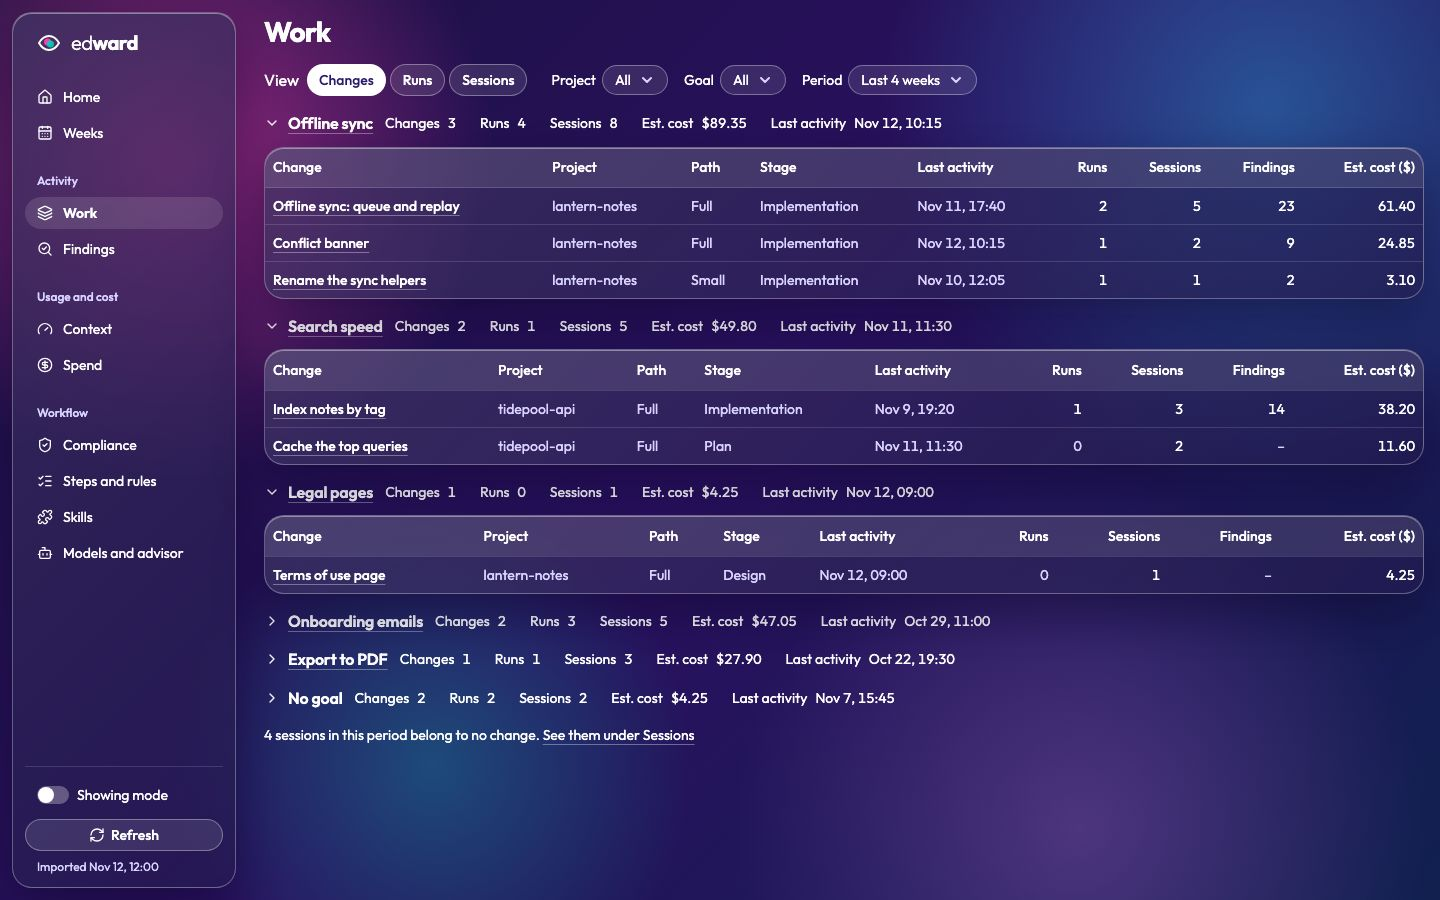
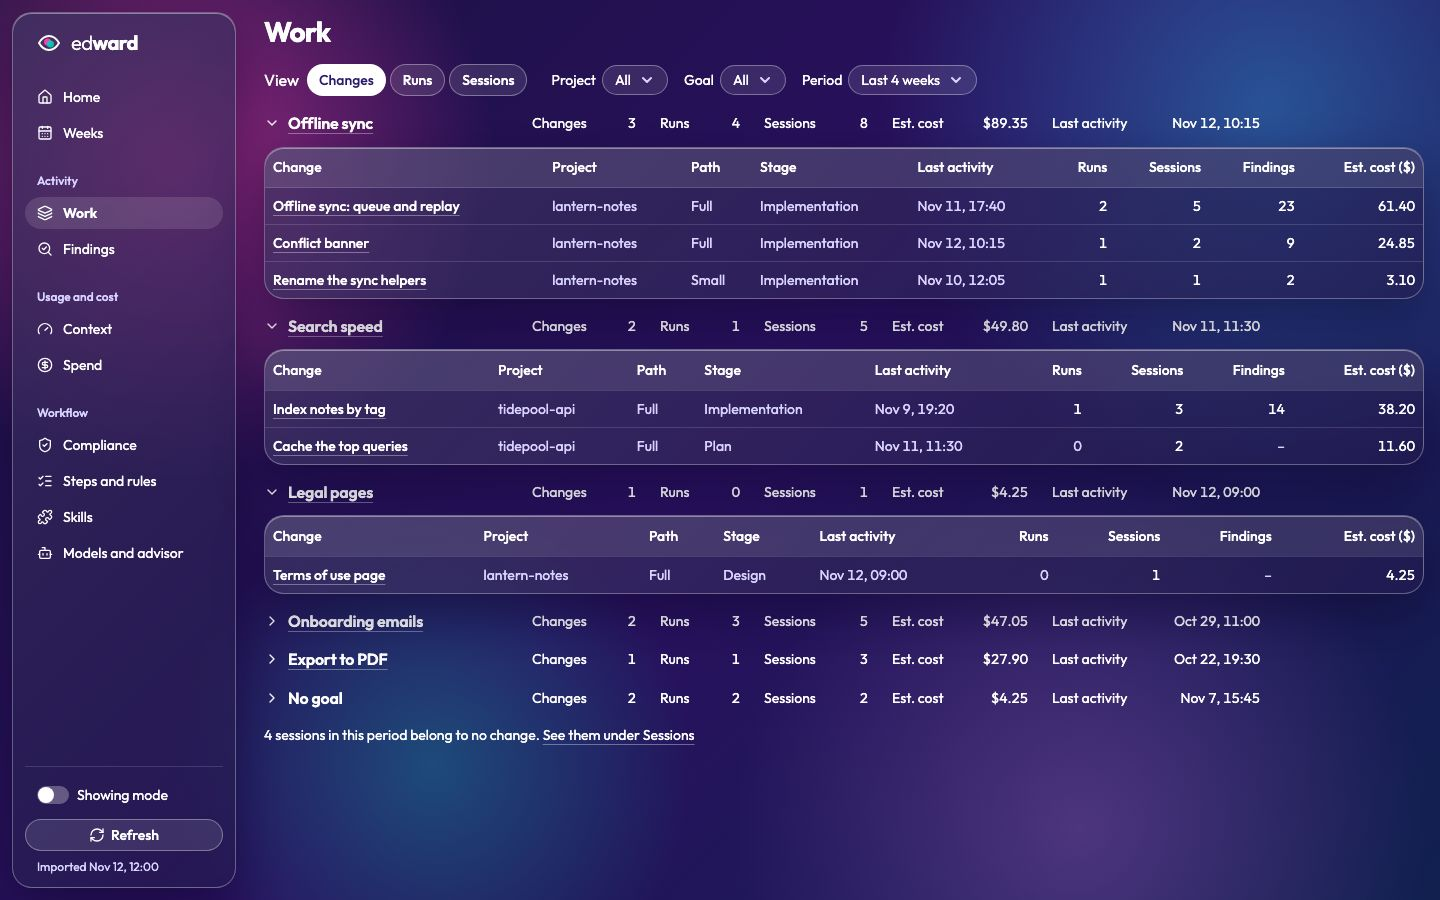
docs: the Work page's design after the owner's grilling
Changes span projects, keyed by their spec's project and path; two more
change requests (a fresh session per new change, a backfill of older
records); aligned section totals and the goal page's Sessions table,
with their captures re-rendered.

diff --git a/docs/superpowers/specs/2026-11-17-work-page-design.md b/docs/superpowers/specs/2026-11-17-work-page-design.md
@@ -1,6 +1,6 @@
 # Work: goals, changes and the session graph
 
-Status: draft, awaiting the owner's approval. Path: Full (new facts in the import's schema, new views, routes and pages, showing mode, `check:real`, fixtures, two routes redirected). Captures: `docs/design/2026-11-17-work/`, rendered on the real components with invented data, on the throwaway branch `claude/activity-mock` at `cada742`, cut from `main` at `855395e` (the side menu and the run page redesign are both merged).
+Status: draft, awaiting the owner's approval. Path: Full (new facts in the import's schema, new views, routes and pages, showing mode, `check:real`, fixtures, two routes redirected). Captures: `docs/design/2026-11-17-work/`, rendered on the real components with invented data, on the throwaway branch `claude/activity-mock` at `1e0bf75` (the Work and goal captures re-rendered after the grilling; the goal page's mocked Sessions table shows only the columns its mock data has), cut from `main` at `855395e` (the side menu and the run page redesign are both merged).
 
 ## Intent
 
@@ -30,7 +30,7 @@ The question the Work page answers: what have I been working toward, and what di
 - Any other page. Home, Weeks, Findings, Context, Spend, Compliance, Steps and rules, Skills and Models and advisor stay as they are. The owner decided to keep Weeks apart from Home: Home is "now", with fixed windows and no filters; Weeks is filtered history with tables of its own.
 - Goals or changes on other pages (spend by goal, findings by goal, a goal filter on Home). Worth having later; not here.
 - Creating, renaming or assigning a goal in the dashboard. The owner ruled it out: it would not be kept consistent.
-- Backfilling titles, specs, starters or goals for work already recorded. That is the workflow's own task if it wants it.
+- Backfilling titles, specs or goals in the dashboard, by a classifier or by hand. Older records gain them through the workflow's own backfill (change request 6), and the dashboard reads them like any others.
 - The run's page, beyond the header facts named under "The run's page".
 - The phone layout beyond what "At each width" says.
 
@@ -53,15 +53,17 @@ The question the Work page answers: what have I been working toward, and what di
 Written here so the workflow repo can take them as its own tasks. Field names are the workflow's to choose; the dashboard's schema follows what the reporter ships. Each fact is nullable: an older record has none. Three shapes are asked for, so the dashboard has nothing to guess: each fact sits on the unit's exported entry, as `title` and `key` do; a session exports at most one spec; and a starter is named by the reporter's own session `key`, as `handoff_to` names a successor.
 
 1. **A run's title.** When a Small or Full path run finishes, the session writes one line into its record saying what the run achieved, in the same step that fills the record from the ledger. A plan record gets one too. The reporter exports it on the run, apart from the session's title it already exports.
-2. **The spec.** Each plan record and each Full path run names the spec it comes from, as a path under the project root. The reporter exports it on those units, and on each session it can tie to that spec (the sessions that wrote the spec, the plan record or the run's record, and the sessions linked to them by a handoff or a start), so a design session belongs to its change. A session tied to several specs exports the one of the newest record it holds, else the one of the session that started it.
+2. **The spec.** Each plan record and each Full path run names the spec it comes from, as the spec's own project and its path under that project's root, since a change often spans repos: a run in one repo can be built from a spec kept in another. The reporter exports it on those units, and on each session it can tie to that spec (the sessions that wrote the spec, the plan record or the run's record, and the sessions linked to them by a handoff or a start), so a design session belongs to its change. A session tied to several specs exports the one of the newest record it holds, else the one of the session that started it.
 3. **Who started a session.** For each session, the reporter exports the session that started it and how: `started` (through `start_session`) or `handoff`. Today only a handoff's successor is exported (`context.handoff_to`).
 4. **The goal.** A workflow rule and a fact:
    - A session started from another session, or by a handoff, is given its goal in its brief. The starting session decides: the same goal when the task serves that goal's outcome, another goal or none when it doesn't. (The owner's examples: renaming the app during the UI work belongs to the UI goal, since the brand is part of the look; "by the way, start on the terms of use" does not.)
    - A session the owner starts directly states the goal in its first message, beside the path and stage. It picks one of the project's known goals when the request continues one, and otherwise proposes a name. The owner corrects it in words; no question is asked.
-   - To pick consistently, the session reads the known goals from the log (a reporter command that lists them).
+   - To pick consistently, the session reads the known goals from the log (a reporter command that lists them), across every project, since a goal can span repos.
    - The goal goes in the ledger and in the plan and run records. The reporter exports it on each run, plan record and session. A session with no goal exports none.
+5. **One change per session.** A workflow rule, no new fact: when a new change comes up in a session (a new design, a new spec), it starts in a fresh session, through `start_session`, never in the same one. So a session holds the units of one change at most, and the dashboard's rule for a session holding two (below) covers only records from before it.
+6. **A backfill of older records.** A one-off task in the workflow repo, after 1, 2 and 4, whose fields it fills: a session reads the older records with their ledgers and archives (`~/.claude/workflow-archive`) and proposes each record's title, spec and goal; the owner reviews the proposals once, and only then are they written where the reporter reads them. Nothing in the dashboard changes for it.
 
-The four are independent of each other. They are filed and built first; the dashboard's plan starts once the reporter exports them, so `check:real` has real fields to read. Records from before them still import: see "Before the facts arrive".
+Requests 1 to 5 are independent of each other; 6 follows 1, 2 and 4. Requests 1 to 5 are filed and built first; the dashboard's plan starts once the reporter exports 1 to 4, so `check:real` has real fields to read. Records from before them still import: see "Before the facts arrive".
 
 ## Approaches
 
@@ -91,15 +93,15 @@ For the level above a run, the owner's first thesis was "a spec equals a run, wi
 
 ### The levels, as the dashboard builds them
 
-- **A change** is the units that share a spec: its runs, its plan records and its sessions. Runs and plan records with no spec that share a plan file (`plan`, exported today) are one change, so an older plan record joins the run built from it. A run or plan record with neither is a change of its own.
-- **A session is in one change at most:** the one of the spec the reporter gives it; else the change of the newest run or plan record it holds; else none. A session that held runs of two changes sits in the newer one's, and the older run's change shows that run with no session; the graph still draws the session once.
+- **A change** is the units that share a spec (its project and path): its runs, its plan records and its sessions, in whichever projects they ran. **A change's projects** are its units' roots; its **home project** is its spec's, else its one run's. Runs and plan records with no spec that share a plan file (`plan`, exported today) are one change, so an older plan record joins the run built from it. A run or plan record with neither is a change of its own.
+- **A session is in one change at most:** the one of the spec the reporter gives it; else the change of the newest run or plan record it holds; else none. A session that held runs of two changes sits in the newer one's, and the older run's change shows that run with no session; the graph still draws the session once. Change request 5 makes this a case of older records only.
 - **A change's title** is its newest plan record's title, else its newest run's title, else its spec's file name without the date and `-design.md`, else its run's branch. (Claude's call: the reporter exports no spec title, and this needs no new fact.)
 - **A goal belongs to a change,** not to each unit: a change's goal is the goal of its newest unit that has one, and every unit of the change counts and shows under it, whatever its own. Units of one change normally agree; when they don't, the newest wins and nothing is flagged. A session in no change carries its own goal. The Goal column and filter of the Runs and Sessions views use the same rule. The "Other goals" lane and the anti-goal follow from it: a session started from this goal's sessions sits there when its change's goal (or its own, in no change) is another.
 - **A change's path** is Full when it has a spec or a Full run, else Small. **Its stage** is the furthest it reached: Implementation with a Full or Small run, else Plan with a plan record, else Design.
 - **A session's step** is what it held: Implementation when it holds a Full or Small run, else Plan when it holds a plan record, else Design. A session holding both reads Implementation.
 - **A goal** is the changes and loose sessions that carry its name. It may span projects.
 - **Totals.** A change's cost is the sum of its runs' and sessions' priced costs; the reporter already keeps a session's cost to its rows outside every run window, so nothing counts twice. Its findings are its runs' found findings. Its last activity is the latest of its runs' finishes and its sessions' ends; its start is its earliest session's start. A goal's totals are sums over its changes, plus the cost of its sessions that belong to no change.
-- **A period** holds a change when any of its units is in it, and a goal when any of its changes is. **Filters choose what is listed; they never cut a change.** A listed change's numbers are its whole numbers, units outside the period included, since a change is one thing. A goal section's totals on the Work page are the sums of the changes it lists, so they match the rows under them; the goal's page shows the whole goal, whatever the filters were.
+- **A period** holds a change when any of its units is in it, and a goal when any of its changes is. **Filters choose what is listed; they never cut a change.** A listed change's numbers are its whole numbers, units outside the period included, since a change is one thing. A goal section's totals on the Work page are the sums of the changes it lists, so they match the rows under them; the goal's page shows the whole goal, whatever the filters were. So Work's totals over a period can be more than Weeks' or Spend's over the same weeks, which sum each unit in its own week: Work answers what each effort took, Weeks and Spend what the weeks cost. The page doesn't say so; this spec does. The project filter lists a change when any of its units ran in that project.
 
 These sums live in one place, a new `views/work.ts`, as the other pages' sums do, with the response types in `packages/shared/src/api/work.ts`.
 
@@ -112,7 +114,7 @@ Every new field is `.nullish()` in the report schema. With none of them, each ru
 The question: what have I been working toward, and what did each effort take?
 
 - **Title** "Work". **View** switch: Changes, Runs, Sessions (an `Options` group). **Filters**: Project, Goal and Period on the Changes view; the Runs and Sessions views keep today's filters and gain Goal.
-- **Changes view.** One section per goal, most recently active first, "No goal" last. A section's title row holds a chevron button that opens and closes it, the goal's name as a link to the goal's page, and its totals: Changes, Runs, Sessions, Est. cost, Last activity. Open, it shows a table of the goal's changes: Change (a link to its page), Project, Path, Stage, Last activity, Runs, Sessions, Findings, Est. cost ($). A goal with a change active in the current week starts open; the rest start closed. "No goal" has no page and its name is plain text.
+- **Changes view.** One section per goal, most recently active first, "No goal" last. A section's title row holds a chevron button that opens and closes it, the goal's name as a link to the goal's page, and its totals: Changes, Runs, Sessions, Est. cost, Last activity. The title rows of all sections share one set of columns: the name's column is as wide on every row, a longer name wrapping inside it, and each total sits in its own column, numbers right-aligned, so the totals line up down the page whatever the names' lengths (the owner's note on the first captures). Open, it shows a table of the goal's changes: Change (a link to its page), Project (the home project, with "+N" for its other projects, a tooltip naming them), Path, Stage, Last activity, Runs, Sessions, Findings, Est. cost ($). A goal with a change active in the current week starts open; the rest start closed. "No goal" has no page and its name is plain text.
 - Under the sections, one line when the period has sessions in no change: "4 sessions in this period belong to no change.", with a link to the Sessions view.
 - **Runs view.** Today's Runs table and its "Has warnings" control, with three changes: its first column is "Run", the run's title linking to the run's page; a "Change" column links to the change's page (the dash, read "no design", for a change of one run with no spec); a "Goal" column. Branch stays, after Goal.
 - **Sessions view.** Today's Sessions table, its opening rows and its "Has warnings" control, with "Change" and "Goal" columns added after Project. With `session=<key>` in the URL it lists that one session, whatever the period and the other filters, with its row open, under a chip naming it with a link that clears it, as Compliance's step chip does. A key that matches nothing, or a session showing mode hides, lists none and says so.
@@ -125,15 +127,15 @@ The question: what did this effort take, and how did it spread?
 - A link back to Work, the goal's name as the page title, and its facts as `Pairs`: Project (or "Several projects"), Started, Last activity, Changes, Runs, Sessions, Findings, Est. cost.
 - **"How the work spread"**: the session graph (below), one lane per change, in order of each change's start, then a lane "No change" for the goal's sessions in none, then a lane "Other goals" for sessions started from this goal's sessions but given another goal.
 - **Changes**: the same table as a section of the Work page, without Project when the goal has one project.
-- **Sessions**: the table described under the change's page, with a Change column. (The mockup leaves this table out; the build has it, since the graph needs its table.)
+- **Sessions**: the table described under the change's page, with a Change column, since the graph needs its table. A goal can reach dozens of sessions; long tables wait on the tables work's pagination, as a long run's findings do.
 
 ### A change's page, `/work/changes/$key` (`change-*`)
 
 The question: what did this design take, from the first conversation to the last run?
 
-- A link back to Work, the change's title, and its facts: Goal (a link to the goal's page), Project, Path, Stage, Started, Last activity, Sessions, Runs, Est. cost, and Spec (the file's name) when it has one.
+- A link back to Work, the change's title, and its facts: Goal (a link to the goal's page), Project (its home project) and Other projects when it has some, Path, Stage, Started, Last activity, Sessions, Runs, Est. cost, and Spec (the file's name) when it has one.
 - **"How the work spread"**: the session graph in one lane, with sessions of other changes or goals that this change's sessions started, or that started them, drawn outlined.
-- **Runs**: Run (title, linking to the run's page), Branch, Finished, Time (min), Tasks, Findings (Found, Closed), Est. cost ($). Plan records are listed too, with their path shown in a Path column when the change has one.
+- **Runs**: Run (title, linking to the run's page), Project when the change has several, Branch, Finished, Time (min), Tasks, Findings (Found, Closed), Est. cost ($). Plan records are listed too, with their path shown in a Path column when the change has one.
 - **Sessions**: Session (its title, a link to `/work?view=sessions&session=<key>`), Step, Started, Started by (the starting session's title; the dash, read "started by you", when none), Length, Model, Run (the title of the run it holds), Est. cost ($).
 
 ### The session graph
@@ -155,11 +157,11 @@ The question: what did this design take, from the first conversation to the last
 
 - `SECTIONS` in `layout/Menu.tsx`: Activity becomes **Work** (`/work`, the `Layers` icon) and **Findings**. Ten entries.
 - `/runs` redirects to `/work?view=runs` and `/sessions` to `/work?view=sessions`. `/runs/$key` stays the run's page, and Work is the current entry on it and on every `/work/...` page.
-- A goal's key is made from its name, a change's from its project root and spec path (or its one run's key when it has no spec), with the recipe `keys.ts` uses for runs and sessions. Both are the dashboard's own: the reporter exports no key for them.
+- A goal's key is made from its name, a change's from its spec's project root and spec path, whichever project its units ran in (its plan file's when it has no spec, or its one run's key when it has neither), with the recipe `keys.ts` uses for runs and sessions. Both are the dashboard's own: the reporter exports no key for them.
 
 ### Showing mode
 
-As every view: counts include every project and session; lists are filtered. Goal names, change titles, run titles, session titles and spec file names are text from units and are masked with `maskText`. A change is listed when its project's root is shown; a goal when one of its changes is. A graph leaves out the sessions `showSession` doesn't hold, drops the edges to them, and says how many it left out. A goal's or change's page whose every unit is hidden answers as a missing one. `views/work.ts` gets the `leaks` check like every view, and a goal name is added to the scope's hidden strings when none of its changes is shown.
+As every view: counts include every project and session; lists are filtered. Goal names, change titles, run titles, session titles and spec file names are text from units and are masked with `maskText`. A change is listed when its home project's root is shown; a goal when one of its changes is. A listed change's units in hidden projects count in its numbers but are not listed (no row, no graph box), and its hidden projects show only in the "+N" count, never by name. A graph leaves out the sessions `showSession` doesn't hold, drops the edges to them, and says how many it left out. A goal's or change's page whose every unit is hidden answers as a missing one. `views/work.ts` gets the `leaks` check like every view, and a goal name is added to the scope's hidden strings when none of its changes is shown.
 
 ### States
 
@@ -205,16 +207,19 @@ As every view: counts include every project and session; lists are filtered. Goa
 - `check:real`: a line comparing, counts only, the changes' and goals' cost totals with the sum of the units' costs, so a double count shows.
 - The `## Code conventions` lines this design settles (where the levels are built, where a title is shown, the keys).
 
-## Claude's calls, open to correction
+## Settled in the owner's grilling (2026-11-17)
 
-- A change's title, goal, path and stage, and a session's step, are derived in the dashboard from facts the reporter exports, as listed under "The levels". No change request asks for them.
-- A goal belongs to a change: a unit whose own goal differs from its change's counts under the change's.
+- A goal belongs to a change: its newest unit's goal, for every unit of it, with no flag when units disagree.
 - A listed change always shows its whole numbers; the period and project filters only choose which changes are listed.
-- Older runs and plan records with no spec are joined into one change by their plan file.
-- A session's link opens it alone in the Sessions view, through `session=<key>`.
-- A goal may span projects, and is identified by its name alone.
-- The page is named "Work" and its URLs are under `/work`.
+- A session is in one change at most, and the workflow enforces it: a new change starts in a fresh session (change request 5).
+- Older runs and plan records with no spec are joined into one change by their plan file. Older records gain titles, specs and goals through the workflow's backfill (change request 6), never a classifier in the dashboard.
+- A goal may span projects, and is identified by its name alone; the known-goals list covers every project.
+- A change may span projects: keyed by its spec's project and path, listed under its home project with "+N", matched by the project filter through any of its units.
 - "No goal" has a section and no page.
+- The page is named "Work" and its URLs are under `/work`.
+- The goal's page has a Sessions table under its graph.
 - A goal active in the current week starts open; the open state is not remembered between visits.
-- The goal's page gains a Sessions table the mockup doesn't show.
-- The workflow's change requests are built before the dashboard's plan starts.
+- A session's link opens it alone in the Sessions view, through `session=<key>`; there is no session page.
+- A goal section's title row lines its totals up in columns shared by every section.
+
+Still Claude's call, not raised in the grilling: a change's title, path and stage, and a session's step, are derived in the dashboard from facts the reporter exports, as listed under "The levels"; no change request asks for them.
